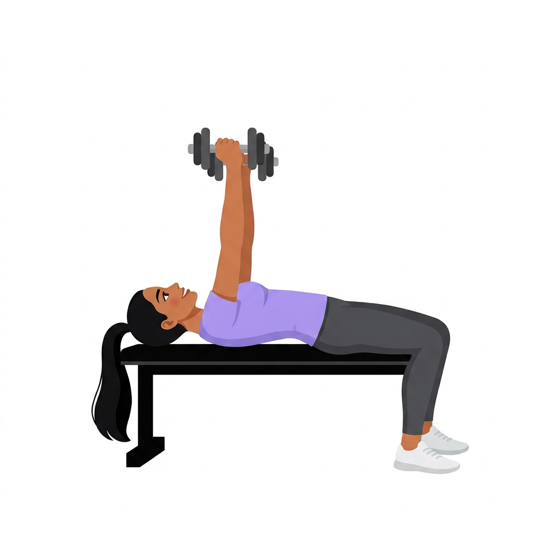
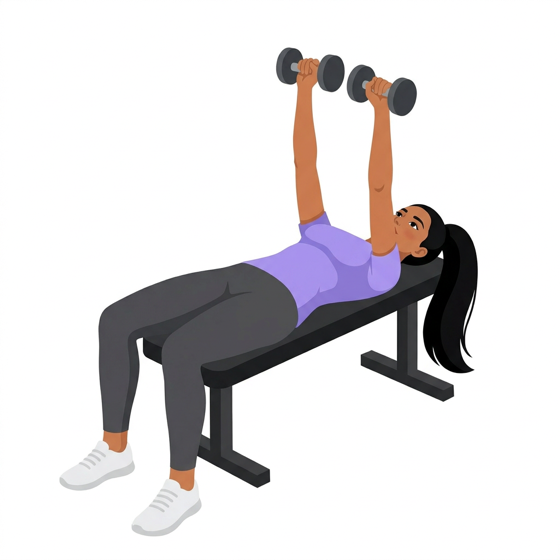
Fix form on hip thrust, one-arm row and bench press illustrations; bump cache to v6

Changed region(s): [[0.0911, 0.0607, 0.8804, 0.9411], [0.2429, 0.9411, 0.3036, 0.9714]]

diff --git a/sw.js b/sw.js
@@ -1,6 +1,6 @@
 /* Gym Buddy service worker — precaches everything so the app works offline.
    Bump VERSION whenever any app file or image changes. */
-const VERSION = 'gym-buddy-v5';
+const VERSION = 'gym-buddy-v6';
 const FILES = ['./', 'index.html', 'app.js', 'styles.css', 'manifest.json', 'fonts/oswald.woff2',
   'icons/icon-192.png', 'icons/icon-512.png', 'icons/icon-maskable-512.png',
 'images/air-bike.png',
